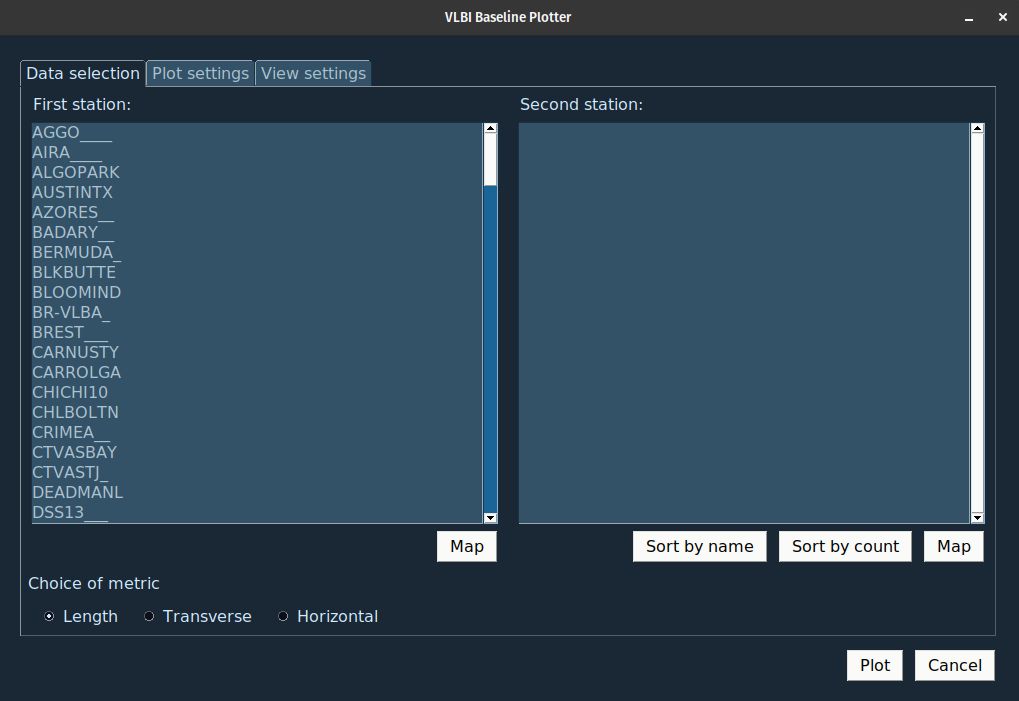
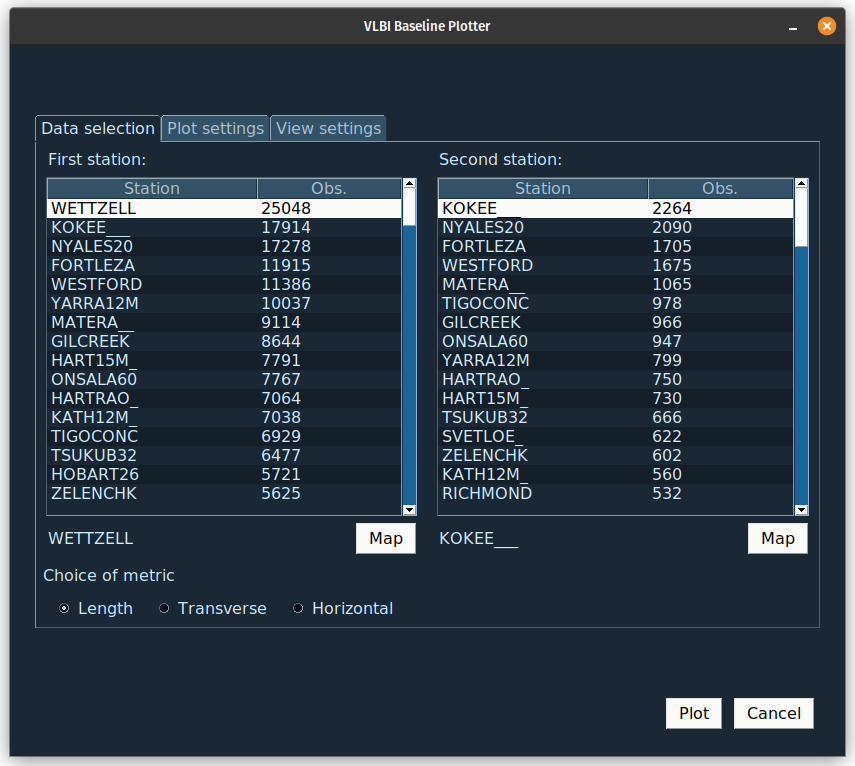
Improved scaling and added script mode back

diff --git a/baseline_plotter.py b/baseline_plotter.py
@@ -1,4 +1,57 @@
 from utility.gui.gui import run_gui
+from utility.plot.plot_baseline import plot_lines
+from utility.data_selection.find_matching_station_data import find_matching_station_data
+import argparse
+import matplotlib.pyplot as plt
+import sys
 
 if __name__ == '__main__':
-    run_gui()
+    if len(sys.argv) == 1:
+        run_gui()
+
+    else:
+        # Create parser to allow program to be run in script mode
+        parser = argparse.ArgumentParser(
+            prog='Plot baseline',
+            description='Plots baselines between 2 given stations')
+
+        parser.add_argument('station1', type=str)
+        parser.add_argument('station2', type=str)
+        parser.add_argument('--no_scatter', action='store_true', help="don't plot scatter plot")
+        parser.add_argument('--no_residual', action='store_true', help="don't plot residual plot")
+        parser.add_argument('--no_rolling_std', action='store_true', help="don't plot rolling std plot")
+        parser.add_argument('--no_raw', action='store_true', help="don't plot raw data")
+        parser.add_argument('--no_trimmed', action='store_true', help="don't plot trimmed data")
+        parser.add_argument('--no_trendline', action='store_true', help="don't plot trendline")
+
+        parser.add_argument('--save_plots', action='store_true', help="save plots to file")
+        parser.add_argument('--show_plots', action='store_true', help="show plots")
+        parser.add_argument('--file_type', type=str, default="png", help="file type to save plots as")
+
+        parser.add_argument('--window_size', type=float, default=12, help="window size for rolling std (months)")
+        args = parser.parse_args()
+
+        plotSettings = {
+            "scatter": not args.no_scatter,
+            "scatterRaw": not args.no_raw,
+            "scatterTrimmed": not args.no_trimmed,
+            "scatterTrendline": not args.no_trendline,
+            "residual": not args.no_residual,
+            "residualRaw": not args.no_raw,
+            "residualTrimmed": not args.no_trimmed,
+            "rolling_std": not args.no_rolling_std,
+            "rolling_stdRaw": not args.no_raw,
+            "rolling_stdTrimmed": not args.no_trimmed,
+            "rolling_stdWindowSize": args.window_size/12
+        }
+
+        viewSettings = {
+            "display": args.show_plots,
+            "save": args.save_plots,
+            "saveFormat": args.file_type
+        }
+
+        data = find_matching_station_data(args.station1, args.station2)
+        plot_lines(data, 'length', plotSettings, viewSettings)
+        if args.show_plots:
+            plt.show()

diff --git a/utility/plot/plot_baseline.py b/utility/plot/plot_baseline.py
@@ -211,51 +211,3 @@ def plot_lines(data, metric, plotSettings, viewSettings):
         plt.show(block=False)
     else:
         plt.close("all")
-
-
-if __name__ == '__main__':
-    # Create parser to allow program to be run in script mode
-    parser = argparse.ArgumentParser(
-        prog='Plot baseline',
-        description='Plots baselines between 2 given stations')
-
-    parser.add_argument('station1', type=str)
-    parser.add_argument('station2', type=str)
-    parser.add_argument('--no_scatter', action='store_true', help="don't plot scatter plot")
-    parser.add_argument('--no_residual', action='store_true', help="don't plot residual plot")
-    parser.add_argument('--no_rolling_std', action='store_true', help="don't plot rolling std plot")
-    parser.add_argument('--no_raw', action='store_true', help="don't plot raw data")
-    parser.add_argument('--no_trimmed', action='store_true', help="don't plot trimmed data")
-    parser.add_argument('--no_trendline', action='store_true', help="don't plot trendline")
-
-    parser.add_argument('--save_plots', action='store_true', help="save plots to file")
-    parser.add_argument('--show_plots', action='store_true', help="show plots")
-    parser.add_argument('--file_type', type=str, default="png", help="file type to save plots as")
-
-    parser.add_argument('--window_size', type=float, default=12, help="window size for rolling std (months)")
-    args = parser.parse_args()
-
-    plotSettings = {
-        "scatter": not args.no_scatter,
-        "scatterRaw": not args.no_raw,
-        "scatterTrimmed": not args.no_trimmed,
-        "scatterTrendline": not args.no_trendline,
-        "residual": not args.no_residual,
-        "residualRaw": not args.no_raw,
-        "residualTrimmed": not args.no_trimmed,
-        "rolling_std": not args.no_rolling_std,
-        "rolling_stdRaw": not args.no_raw,
-        "rolling_stdTrimmed": not args.no_trimmed,
-        "rolling_stdWindowSize": args.window_size/12
-    }
-
-    viewSettings = {
-        "display": args.show_plots,
-        "save": args.save_plots,
-        "saveFormat": args.file_type
-    }
-
-    data = find_matching_station_data(args.station1, args.station2)
-    plot_lines(data, 'length', plotSettings, viewSettings)
-    if args.show_plots:
-        plt.show()

diff --git a/utility/gui/map.py b/utility/gui/map.py
@@ -94,21 +94,23 @@ def draw_map(station_coordinates, title):
     plt.axis('off')
     plt.tight_layout(pad=0)
 
-    # Add the events to the event loop
+    # Add labels to the stations
     cursor_hover = mplcursors.cursor(
             station_points, hover=mplcursors.HoverMode.Transient)
     cursor_hover.connect(
         "add", lambda sel: sel.annotation.set_text(station_coordinates.loc[sel.index].station))
+
+    # Add a "click"-listener to the stations
     cursor_click = mplcursors.cursor(station_points)
     cursor_click.connect("add", lambda sel: map_window.write_event_value("selected",sel.index))
 
     # Open the window
     layout = [[sg.Canvas(s=(1000,500), key='map_canvas', expand_x=True, expand_y=True)],
               [sg.Canvas(s=(1000,50), key="toolbar_canvas", expand_x=True, expand_y=False)]]
-    map_window = sg.Window(title, layout, resizable=False, finalize=True, modal=True)
+    map_window = sg.Window(title, layout, resizable=True, finalize=True, modal=True, margins=(0,0), element_padding=0)
     draw_fig(map_window['map_canvas'].TKCanvas, fig, map_window['toolbar_canvas'].TKCanvas)
 
-    # Event loop for window
+    # Wait for a selection or close
     while True:
         event, values = map_window.read()
         if event == "selected":

diff --git a/utility/gui/gui.py b/utility/gui/gui.py
@@ -1,3 +1,5 @@
+assert __name__ != "__main__", "This file is not meant to be run, run baseline_plotter.py instead"
+
 from utility.gui.map import draw_map
 from utility.gui.layout import create_layout
 from utility.data_selection.find_matching_station_data import find_matching_station_data
@@ -94,6 +96,7 @@ def run_gui():
     layout = create_layout(first_station_list)
     main_window = sg.Window('VLBI Baseline Plotter', layout,
                             margins=[20, 20], resizable=True, finalize=True)
+    main_window.set_min_size((541,566))
 
     # Fixes visual bug on Windows 11
     plt.figure()
@@ -108,7 +111,7 @@ def run_gui():
 
         # Generate plots if user clicks plot
         if event == "Plot":
-            if not (values["first_station"] and values["second_station"]):
+            if not (selected_first_station and selected_second_station):
                 sg.popup("Please select two stations!",title="Warning")
             elif not (values["scatter"] or values["residual"] or values["rolling_std"]):
                 sg.popup("Please select plot type!",title="Warning")

diff --git a/utility/gui/layout.py b/utility/gui/layout.py
@@ -1,6 +1,5 @@
 import PySimpleGUI as sg
 
-TABLE_LENGTH = 25
 TABLE_WIDTHS = [12,6]
 TABLE_HEADINGS = ["Station","Obs."]
 
@@ -40,8 +39,7 @@ def create_layout(stations):
                              [sg.Text("Choice of metric")],
                              [sg.Column(metric_settings_col, expand_x=True)]]
 
-    data_selection_tab = sg.Tab("Data selection", data_selection_column,
-                                expand_x=True, expand_y=True)
+    data_selection_tab = sg.Tab("Data selection", data_selection_column)
 
     scatter_settings_col = [[sg.Checkbox('Raw data', default=False,
                                          key='scatterRaw', expand_x=True)],
@@ -102,6 +100,5 @@ def create_layout(stations):
                    [sg.Push(), sg.Button('Plot'), sg.Button('Cancel')]]
 
     layout = [[sg.TabGroup([[data_selection_tab, settings_tab, view_tab]], expand_x=True, expand_y=True)],
-              [sg.VPush()],
               [sg.Column(buttons_col, expand_x=True, expand_y=False)]]
     return layout
